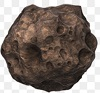
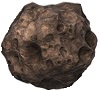
Сделал начальную отрисовку уроня, немного изменил классы

diff --git a/game.py b/game.py
@@ -2,7 +2,7 @@ from lessons import *
 
 player_group = pygame.sprite.Group()
 meteors_group = pygame.sprite.Group()
-images = {'player': load_image('player.jpg', -1), 'meteor': load_image('meteor.jpg')}
+images = {'player': load_image('player.jpg', -1), 'meteor': load_image('meteor.jpg', -1)}
 
 
 class Player(pygame.sprite.Sprite):
@@ -10,7 +10,7 @@ class Player(pygame.sprite.Sprite):
         super().__init__(player_group, all_sprites)
         self.image = images['player']
         self.rect = self.image.get_rect()
-        self.rect.x = x
+        self.rect.x = x * COLCOUNT
         self.rect.y = y * GAME_SPEED
         self.play = True
         self.damage = 10
@@ -37,8 +37,11 @@ class Meteor(pygame.sprite.Sprite):
         self.image = images['meteor']
         self.rect = self.image.get_rect()
         self.rect.y = y * GAME_SPEED
-        self.rect.x = x
+        self.rect.x = x * COLCOUNT
         self.vect = [random.randint(-1, 1), random.randint(0, 1)]
+        self.damage = 50
+        self.health = 30
+
 
     def move(self):
         self.rect.x += self.vect[0]
@@ -59,8 +62,8 @@ class Camera:
         self.dy = -(target.rect.y + target.rect.h - HEIGHT)
 
 
-GAME_SPEED = 50
-COLCOUNT = WIDTH // 11  # Адаптировать к разным уровням
+GAME_SPEED = 200
+COLCOUNT = WIDTH // 9 # Адаптировать к разным уровням
 MYEVENTTYPE = 10
 start_screen()
 levelmap = display_lessons()

diff --git a/lessons.py b/lessons.py
@@ -68,6 +68,7 @@ def generate_level(filename):
                 sp1.extend((k, elem))
             sp.append(sp1)
     map = []
+    sp = sp[::-1]
     for i in range(len(sp)):
         s = []
         for j in range(0, len(sp[i]) - 1, 2):
